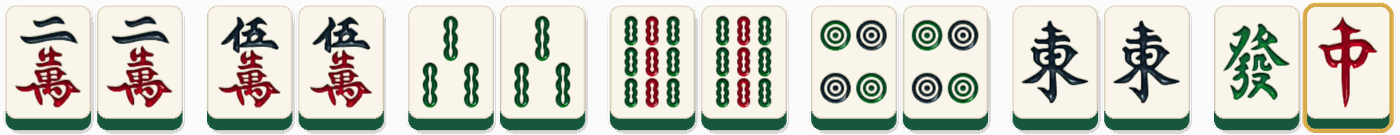
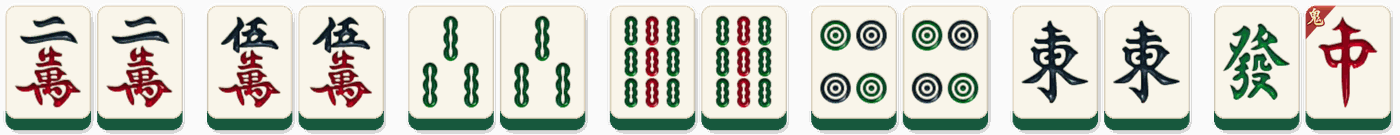
更新：2026-10-15 14:41

Changed region(s): [[0.9214, 0.0, 1.0, 1.0]]

diff --git a/ko/rules.html b/ko/rules.html
@@ -33,7 +33,7 @@ if(a)location.replace(new URL(a.href).pathname+location.search+location.hash)}ca
 <p>마작패 한 벌은 <strong>백서른여섯 장</strong>이며, 같은 패가 네 장씩 있습니다. 만수패, 삭수패, 통수패는 각각 일부터 구까지 아홉 종류로, 한 계통에 서른여섯 장, 모두 백여덟 장입니다. 동, 남, 서, 북의 풍패 열여섯 장과 중, 발, 백의 삼원패 열두 장을 더하면 한 벌이 됩니다. 표면이 비어 있는 백도 엄연히 한 종류의 패입니다.</p>
 <figure class="tiles"><picture><img src="/assets/rules/deck.png" alt="패 한 벌: 만·삭·통 1~9, 동남서북 풍패, 중·발·백 삼원패. 종류마다 네 장씩, 모두 136장." loading="lazy"></picture><figcaption>패 한 벌: 만·삭·통 1~9, 동남서북 풍패, 중·발·백 삼원패. 종류마다 네 장씩, 모두 136장.</figcaption></figure>
 <p>소설에서 만수패, 삭수패, 통수패는 재물, 나무, 쇠를 상징합니다. 네 풍패는 네 방향을, 중, 발, 백은 각각 하늘의 중심, 생명력, 맑고 빈 경지를 나타냅니다. 이것이 작품에서 말하는 천지의 형상입니다. 대국을 따라갈 때는 우선 패의 계통과 숫자를 구별하면 됩니다.</p>
-<p>섞은 패를 쌓아 차례로 뽑는 곳이 <strong>패산</strong>, 각자가 들고 있는 패가 손패입니다. 버린 패는 버림패 구역에 놓입니다. 이를 살피면 이미 나온 패와 상대가 기다리는 패를 헤아릴 수 있습니다. 첫째 장의 아홉째 순은 청람이 패를 뽑아 가는 흐름을 따라 셉니다. 네 국을 겨룬다는 말은 패를 네 번만 뽑는다는 뜻이 아닙니다.</p>
+<p>섞은 패를 쌓아 차례로 뽑는 곳이 <strong>패산</strong>, 각자가 들고 있는 패가 손패입니다. 버린 패는 버림패 구역에 놓입니다. 이를 살피면 이미 나온 패와 상대가 기다리는 패를 헤아릴 수 있습니다. 첫째 장의 아홉째 순은 청람이 패를 뽑아 가는 흐름을 따라 셉니다.</p>
 <h3>화료의 기본: 네 몸통과 한 머리</h3>
 <p>먼저 <strong>네 몸통과 한 머리</strong>라는 기본 형태를 기억하세요. 같은 계통에서 숫자가 이어지는 일만, 이만, 삼만 같은 세 장은 슌쯔입니다. 삼통 세 장처럼 같은 패 세 장은 커쯔입니다. 깡으로 같은 패 네 장을 모아도 몸통은 하나로 셉니다. 같은 패 두 장은 또이쯔이며, 머리로 남길 수 있습니다.</p>
 <figure class="tiles"><picture><source media="(max-width:600px)" srcset="/assets/rules/melds_m.png"><img src="/assets/rules/melds.png" alt="왼쪽부터 슌쯔(일만·이만·삼만), 커쯔(삼통 세 장), 깡(발 네 장), 또이쯔(북 두 장)." loading="lazy"></picture><figcaption>왼쪽부터 슌쯔(일만·이만·삼만), 커쯔(삼통 세 장), 깡(발 네 장), 또이쯔(북 두 장).</figcaption></figure>
@@ -41,10 +41,10 @@ if(a)location.replace(new URL(a.href).pathname+location.search+location.hash)}ca
 <p><strong>퐁</strong>은 손에 있는 또이쯔와 같은 패가 버려졌을 때 가져와 커쯔로 공개하는 것입니다. <strong>깡</strong>은 규칙에 따라 같은 패 네 장을 한 몸통으로 묶는 것입니다. <strong>치</strong>는 바로 앞 차례인 상가의 버림패를 손의 두 장과 합쳐 슌쯔로 공개하는 것입니다. 추도문에서는 퐁과 깡이 가능하지만 치는 할 수 없습니다. 직접 뽑은 패로 슌쯔를 만드는 것은 가능합니다.</p>
 <p>알맞은 한 장만 더 있으면 화료할 수 있는 상태가 <strong>텐파이</strong>, 그 한 장에 해당하는 패가 대기패입니다. <strong>멘젠</strong>은 치, 퐁, 명깡으로 몸통을 공개하지 않은 상태를 말합니다. 첫째 장에서 청람은 직접 패를 뽑으며 손패를 완성합니다.</p>
 <figure class="tiles"><picture><source media="(max-width:600px)" srcset="/assets/rules/ting_m.png"><img src="/assets/rules/ting.png" alt="텐파이: 열세 장이 갖춰져 한 장만 남았습니다. 육통·칠통은 오통이나 팔통(오른쪽 흐린 패)을 기다리며, 둘 중 하나만 오면 화료합니다." loading="lazy"></picture><figcaption>텐파이: 열세 장이 갖춰져 한 장만 남았습니다. 육통·칠통은 오통이나 팔통(오른쪽 흐린 패)을 기다리며, 둘 중 하나만 오면 화료합니다.</figcaption></figure>
-<p>네 몸통과 머리만이 작품의 유일한 화료 형태는 아닙니다. 다섯째 장에서는 <strong>치또이츠</strong>도 허용합니다. 또이쯔 일곱 개를 모으는 형태이며, 부족한 짝은 만능패로 채울 수 있습니다.</p>
-<figure class="tiles"><picture><source media="(max-width:600px)" srcset="/assets/rules/sevenpairs_m.png"><img src="/assets/rules/sevenpairs.png" alt="치또이츠: 또이쯔 여섯 개에, 만능패 중(금테)이 발의 짝이 되어 일곱 번째 쌍을 채웁니다." loading="lazy"></picture><figcaption>치또이츠: 또이쯔 여섯 개에, 만능패 중(금테)이 발의 짝이 되어 일곱 번째 쌍을 채웁니다.</figcaption></figure>
+<p>네 몸통과 머리만이 작품의 유일한 화료 형태는 아닙니다. 이 작품에서는 <strong>치또이츠</strong>도 허용합니다. 또이쯔 일곱 개를 모으는 형태이며, 부족한 짝은 만능패로 채울 수 있습니다.</p>
+<figure class="tiles"><picture><source media="(max-width:600px)" srcset="/assets/rules/sevenpairs_m.png"><img src="/assets/rules/sevenpairs.png" alt="치또이츠: 또이쯔 여섯 개에, 만능패 중(왼쪽 위 붉은 ‘귀’ 표시)이 발의 짝이 되어 일곱 번째 쌍을 채웁니다." loading="lazy"></picture><figcaption>치또이츠: 또이쯔 여섯 개에, 만능패 중(왼쪽 위 붉은 ‘귀’ 표시)이 발의 짝이 되어 일곱 번째 쌍을 채웁니다.</figcaption></figure>
 <h3>만능패: 뒤집어 나온 것과 같은 종류</h3>
-<p>추도문에서는 매 국을 시작할 때 사주가 <strong>패산의 끝에서 세 번째 패를 뒤집어 만능패를 정합니다</strong>. 나온 패와 같은 종류가 그 국의 만능패가 되어, 손패를 구성할 때 필요한 어떤 패든 대신할 수 있습니다. 첫째 장의 마지막 국에는 중이 나왔으므로 중이 만능패가 됩니다. 언제나 중으로 고정된 것은 아닙니다.</p>
+<p>추도문에서는 매 국을 시작할 때 사주가 <strong>패산의 끝에서 세 번째 패를 뒤집어 만능패를 정합니다</strong>. 나온 패와 같은 종류가 그 국의 만능패가 되어, 손패를 구성할 때 필요한 어떤 패든 대신할 수 있습니다. 첫째 장의 마지막 국에는 중이 나왔으므로 중이 만능패가 됩니다. 언제나 중으로 고정된 것은 아닙니다. 게임 작패마작에서는 방을 만들 때 ‘뒤집은 패가 만능’을 고를 수 있어 소설과 같은 규칙으로 즐길 수 있습니다. 흔히 쓰는 ‘번귀’ 규칙은 뒤집은 패의 다음 패가 만능패가 됩니다. 예를 들어 오만이 나오면 육만이 만능패입니다.</p>
 <figure class="tiles"><picture><img src="/assets/rules/ghost.png" alt="만능패 정하기: 패산 끝에서 세 번째 패를 뒤집습니다. 중이 나왔으니 이번 판의 중은 모두 만능패입니다." loading="lazy"></picture><figcaption>만능패 정하기: 패산 끝에서 세 번째 패를 뒤집습니다. 중이 나왔으니 이번 판의 중은 모두 만능패입니다.</figcaption></figure>
 <p>뒤집은 패는 패산 끝에 남고, 첫째 장에서는 뽑을 수 없는 패라고 명시합니다. 청람이 손에 가진 중은 다른 한 장입니다. 만능패는 빈자리를 채우지만 패의 수를 늘리지는 않습니다. 마지막 손패를 풀어 보면 분명해집니다.</p>
 <blockquote><p>일만, 이만, 삼만으로 첫 번째 슌쯔를 만듭니다.</p></blockquote>
@@ -52,7 +52,7 @@ if(a)location.replace(new URL(a.href).pathname+location.search+location.hash)}ca
 <blockquote><p>삼통, 삼통, 삼통으로 커쯔 하나를 만듭니다.</p></blockquote>
 <blockquote><p>육통, 칠통, 중에서 중을 팔통으로 써서 세 번째 슌쯔를 만듭니다.</p></blockquote>
 <blockquote><p>북, 북은 머리가 됩니다.</p></blockquote>
-<figure class="tiles"><picture><source media="(max-width:600px)" srcset="/assets/rules/hand_m.png"><img src="/assets/rules/hand.png" alt="첫째 장 청람의 화료패: 슌쯔 셋, 커쯔 하나, 머리 한 쌍. 금테 중은 만능패로 팔통 대신 쓰입니다." loading="lazy"></picture><figcaption>첫째 장 청람의 화료패: 슌쯔 셋, 커쯔 하나, 머리 한 쌍. 금테 중은 만능패로 팔통 대신 쓰입니다.</figcaption></figure>
+<figure class="tiles"><picture><source media="(max-width:600px)" srcset="/assets/rules/hand_m.png"><img src="/assets/rules/hand.png" alt="첫째 장 청람의 화료패: 슌쯔 셋, 커쯔 하나, 머리 한 쌍. 왼쪽 위에 붉은 ‘귀’ 표시가 있는 중은 만능패로 팔통 대신 쓰입니다." loading="lazy"></picture><figcaption>첫째 장 청람의 화료패: 슌쯔 셋, 커쯔 하나, 머리 한 쌍. 왼쪽 위에 붉은 ‘귀’ 표시가 있는 중은 만능패로 팔통 대신 쓰입니다.</figcaption></figure>
 <p>슌쯔 셋, 커쯔 하나, 머리 하나로 형태가 완성됩니다. 마지막에 뽑은 삼통은 커쯔를 완성하고, 손에 있던 중은 통수패 슌쯔의 빈자리를 채웁니다. 만능패의 힘은 이처럼 구체적인 한 장의 역할을 대신하는 데 있습니다.</p>
 <h3>쯔모와 방총: 스물여덟 점 적자에서 네 점 승리까지</h3>
 <p>패산에서 직접 뽑은 패로 화료하는 것이 <strong>쯔모</strong>입니다. 다른 사람의 버림패로 화료하는 것은 론이며, 그 패를 버린 사람은 <strong>방총</strong>한 것입니다. 첫째 장에서 청람에게 필요한 승리는 쯔모입니다.</p>
@@ -65,8 +65,8 @@ if(a)location.replace(new URL(a.href).pathname+location.search+location.hash)}ca
 <p>마지막 국에서 도가 전체의 순증가는 서른두 점입니다. 청람 개인이 받은 마흔여덟 점을 전부 도가의 순이익으로 계산하면 같은 편의 이동분까지 이익으로 세게 됩니다.</p>
 <h3>공도국: 패탁의 공정을 증명하는 사람들</h3>
 <p><strong>공도국</strong>은 무엇을 다투는지, 어떻게 겨룰지, 결과에 따라 무엇을 지킬지를 정하고 대국으로 분쟁을 매듭짓는 자리입니다. 첫째 장에서는 염색 공방의 물길이 걸려 있습니다. 공도탁에서 승패가 공정한 판단이 되리라는 믿음은 패자가 약속을 지키고 승자도 신의를 지키며, 그 과정을 검증할 수 있어야 성립합니다.</p>
-<p><strong>사주</strong>는 패와 점수를 확인하는 판정관입니다. 월녕은 점수뿐 아니라 패가 한 장 더 끼어 있는지도 살핍니다. <strong>패사</strong>는 대국의 기록을 남기는 사람입니다. 죽묵의 기보가 있기에 옛 대국도 다시 살펴볼 수 있습니다. 넷째 장에서는 속임수의 의혹으로 사람을 붙잡아 조사하려면 사주, 입회인, 패사의 <strong>세 주체의 공동 입증</strong>이 필요하다고 밝힙니다.</p>
-<p>기보 공개는 버림패를 사람들 앞에서 기록하고 그 기록을 확인할 수 있다는 뜻입니다. 다섯째 장의 재대국에는 세 주체가 모두 참여하고, 여덟째 장에서는 서원에도 기보 사본이 전해집니다. 속임수가 입증되면 이전 판정을 무효로 돌릴 수도 있습니다. 이겼다는 사실만으로 옳음을 영원히 독차지할 수는 없습니다.</p>
+<p><strong>사주</strong>는 패와 점수를 확인하는 판정관입니다. 월녕은 점수뿐 아니라 패가 한 장 더 끼어 있는지도 살핍니다. <strong>패사</strong>는 대국의 기록을 남기는 사람입니다. 죽묵의 기보가 있기에 옛 대국도 다시 살펴볼 수 있습니다. 작도의 규칙에 따르면 속임수의 의혹으로 사람을 붙잡아 조사하려면 사주, 입회인, 패사의 <strong>세 주체의 공동 입증</strong>이 필요합니다.</p>
+<p>기보 공개는 버림패를 사람들 앞에서 기록하고 그 기록을 확인할 수 있다는 뜻입니다. 속임수가 입증되면 이전 판정을 무효로 돌릴 수도 있습니다. 이겼다는 사실만으로 옳음을 영원히 독차지할 수는 없습니다.</p>
 <h3>세 유파와 게임의 대응 방식</h3>
 <p><strong>추도문</strong>은 안정적인 운영과 멘젠을 중시합니다. 퐁과 깡은 가능하고 치는 금지되며, 매 국 만능패를 정합니다. 게임에서는 <strong>추도호</strong>에 대응합니다.</p>
 <p><strong>홍중회</strong>는 중 네 장을 만능패로 쓰며 변화가 많은 운영을 펼칩니다. 화료 뒤에는 새에 관한 판정 절차가 이어집니다. 대응하는 방식은 <strong>홍중마작</strong>입니다.</p>

diff --git a/ja/rules.html b/ja/rules.html
@@ -33,7 +33,7 @@ if(a)location.replace(new URL(a.href).pathname+location.search+location.hash)}ca
 <p>一組の牌は <strong>百三十六枚</strong>。同じ牌が四枚ずつあります。萬子・索子・筒子はそれぞれ一から九まであり、一種類につき三十六枚、合わせて百八枚。東・南・西・北の四種の風牌が十六枚、中・發・白の三元牌が十二枚で、一組になります。何も描かれていない白も、独立した一種類の牌です。</p>
 <figure class="tiles"><picture><img src="/assets/rules/deck.png" alt="一組の牌：萬子・索子・筒子の一〜九、東南西北の風牌、中・發・白の三元牌。各四枚、計百三十六枚。" loading="lazy"></picture><figcaption>一組の牌：萬子・索子・筒子の一〜九、東南西北の風牌、中・發・白の三元牌。各四枚、計百三十六枚。</figcaption></figure>
 <p>物語では、萬子・索子・筒子は財・木・金、四種の風牌は四方を象徴します。中・發・白が表すのは、それぞれ天の心、生命の力、澄みきった空白。これが作中の「天地の姿」です。対局を読むときは、まず牌の種類と数字を見分ければ十分です。</p>
-<p>洗って積み、順に牌をツモるための山が <strong>牌山</strong>、自分の持つ牌が手牌、捨てた牌が並ぶ場所が河です。河を見れば、すでに出た牌や相手の狙いを考えられます。第一章の「九巡目」は青嵐が牌をツモる経過に沿った数え方です。「四局」は四回ツモることではありません。</p>
+<p>洗って積み、順に牌をツモるための山が <strong>牌山</strong>、自分の持つ牌が手牌、捨てた牌が並ぶ場所が河です。河を見れば、すでに出た牌や相手の狙いを考えられます。第一章の「九巡目」は青嵐が牌をツモる経過に沿った数え方です。</p>
 <h3>和了の基本は四組と一対</h3>
 <p>基本の形は、<strong>四組の面子と、一対の雀頭</strong>です。同じ種類で数字が三つ続く一萬・二萬・三萬などは順子。同じ牌三枚は刻子です。同じ牌四枚をそろえたカンの組も、一組として数えます。同じ牌二枚の対子を、雀頭として残します。</p>
 <figure class="tiles"><picture><source media="(max-width:600px)" srcset="/assets/rules/melds_m.png"><img src="/assets/rules/melds.png" alt="左から順子（一萬・二萬・三萬）、刻子（三筒が三枚）、カン（發が四枚）、対子（北が二枚）。" loading="lazy"></picture><figcaption>左から順子（一萬・二萬・三萬）、刻子（三筒が三枚）、カン（發が四枚）、対子（北が二枚）。</figcaption></figure>
@@ -41,10 +41,10 @@ if(a)location.replace(new URL(a.href).pathname+location.search+location.hash)}ca
 <p><strong>ポン</strong>は、手元の対子に誰かの捨て牌を加え、刻子を公開すること。<strong>カン</strong>は、規則に従って同じ牌四枚を一組にすることです。<strong>チー</strong>は、上家の捨て牌を手元の二枚と合わせ、順子を公開すること。推倒門ではポンとカンはできますが、チーはできません。自分でツモった牌で順子を作ることはできます。</p>
 <p>あと一枚で和了できる状態が <strong>テンパイ</strong>、その一枚に当たる牌が待ち牌です。<strong>門前</strong>とは、チー・ポン・明カンによる副露をしていない状態。第一章の青嵐は、自分で牌をツモりながら手を完成させます。</p>
 <figure class="tiles"><picture><source media="(max-width:600px)" srcset="/assets/rules/ting_m.png"><img src="/assets/rules/ting.png" alt="テンパイ：十三枚がそろい、あと一枚。六筒・七筒の待ちは五筒か八筒（右の薄い牌）で、どちらかが来れば和了。" loading="lazy"></picture><figcaption>テンパイ：十三枚がそろい、あと一枚。六筒・七筒の待ちは五筒か八筒（右の薄い牌）で、どちらかが来れば和了。</figcaption></figure>
-<p>四組と雀頭だけが和了形ではありません。第五章では <strong>七対子</strong>も認められ、七つの対子をそろえて和了します。足りない相方を万能牌で補うこともできます。</p>
-<figure class="tiles"><picture><source media="(max-width:600px)" srcset="/assets/rules/sevenpairs_m.png"><img src="/assets/rules/sevenpairs.png" alt="七対子：対子が六つ。最後の一対は、万能牌の中（金枠）が發の相方になります。" loading="lazy"></picture><figcaption>七対子：対子が六つ。最後の一対は、万能牌の中（金枠）が發の相方になります。</figcaption></figure>
+<p>四組と雀頭だけが和了形ではありません。本作では <strong>七対子</strong>も認められ、七つの対子をそろえて和了します。足りない相方を万能牌で補うこともできます。</p>
+<figure class="tiles"><picture><source media="(max-width:600px)" srcset="/assets/rules/sevenpairs_m.png"><img src="/assets/rules/sevenpairs.png" alt="七対子：対子が六つ。最後の一対は、万能牌の中（左上の赤い「鬼」マーク）が發の相方になります。" loading="lazy"></picture><figcaption>七対子：対子が六つ。最後の一対は、万能牌の中（左上の赤い「鬼」マーク）が發の相方になります。</figcaption></figure>
 <h3>万能牌の決め方：めくった牌と同じ種類</h3>
-<p>推倒門では毎局、司籌が <strong>牌山の末尾から三枚目をめくって万能牌を定めます</strong>。出た牌と同じ種類が、その局の万能牌です。組を作る際、必要な任意の牌に代わることができます。第一章の最終局では中が出たため、中が万能牌となります。毎局必ず中と決まっているわけではありません。</p>
+<p>推倒門では毎局、司籌が <strong>牌山の末尾から三枚目をめくって万能牌を定めます</strong>。出た牌と同じ種類が、その局の万能牌です。組を作る際、必要な任意の牌に代わることができます。第一章の最終局では中が出たため、中が万能牌となります。毎局必ず中と決まっているわけではありません。ゲーム『雀覇麻雀』では部屋を作るときに「めくった牌が万能」を選べ、小説と同じルールで遊べます。一般的な「翻鬼」は、めくった牌の次の牌が万能牌になります。たとえば五萬が出れば、六萬が万能牌です。</p>
 <figure class="tiles"><picture><img src="/assets/rules/ghost.png" alt="万能牌の決め方：牌の山の後ろから三枚目をめくる。中が出たので、この局は中がすべて万能牌。" loading="lazy"></picture><figcaption>万能牌の決め方：牌の山の後ろから三枚目をめくる。中が出たので、この局は中がすべて万能牌。</figcaption></figure>
 <p>めくった一枚は牌山の末尾に残り、第一章ではツモれないと明記されています。青嵐の手元にある中は別の一枚です。万能牌は不足を補いますが、手牌の枚数を増やしません。最後の形を一組ずつ見てみましょう。</p>
 <blockquote><p>一萬・二萬・三萬で、一組目の順子。</p></blockquote>
@@ -52,7 +52,7 @@ if(a)location.replace(new URL(a.href).pathname+location.search+location.hash)}ca
 <blockquote><p>三筒・三筒・三筒で、一組の刻子。</p></blockquote>
 <blockquote><p>六筒・七筒・中で、中を八筒として使い、三組目の順子。</p></blockquote>
 <blockquote><p>北・北で、雀頭。</p></blockquote>
-<figure class="tiles"><picture><source media="(max-width:600px)" srcset="/assets/rules/hand_m.png"><img src="/assets/rules/hand.png" alt="第一章、青嵐の和了形：順子三つ、刻子一つ、雀頭一対。金枠の中は万能牌で、八筒の代わり。" loading="lazy"></picture><figcaption>第一章、青嵐の和了形：順子三つ、刻子一つ、雀頭一対。金枠の中は万能牌で、八筒の代わり。</figcaption></figure>
+<figure class="tiles"><picture><source media="(max-width:600px)" srcset="/assets/rules/hand_m.png"><img src="/assets/rules/hand.png" alt="第一章、青嵐の和了形：順子三つ、刻子一つ、雀頭一対。左上に赤い「鬼」マークのある中は万能牌で、八筒の代わり。" loading="lazy"></picture><figcaption>第一章、青嵐の和了形：順子三つ、刻子一つ、雀頭一対。左上に赤い「鬼」マークのある中は万能牌で、八筒の代わり。</figcaption></figure>
 <p>順子が三組、刻子が一組、雀頭が一対。最後にツモった三筒が刻子を完成させ、中は筒子の順子を補っています。万能牌の働きは、このように具体的な牌の代わりとして確かめられます。</p>
 <h3>ツモと放銃：二十八点の負けから四点の勝ちへ</h3>
 <p>牌山から自分でツモった牌で和了するのが <strong>ツモ</strong>。他人の捨て牌で和了するのはロンで、その牌を捨ててしまうことが <strong>放銃</strong>です。第一章の青嵐が必要とするのは、ツモによる和了です。</p>
@@ -65,8 +65,8 @@ if(a)location.replace(new URL(a.href).pathname+location.search+location.hash)}ca
 <p>陶家全体の増加分は三十二点。青嵐個人が受け取る四十八点を、そのまま陶家の純増としてはいけません。</p>
 <h3>公道局：牌卓の公正を支える記録</h3>
 <p><strong>公道局</strong>は、争点、対局の方式、勝敗に従う約束を定め、牌で争いに決着をつける場です。第一章では染物工房の水路が争点になります。「勝敗こそ公理」という公道卓への期待は、負ければ約束を守り、勝っても信義を守ること、そして対局を検証できることに支えられています。</p>
-<p><strong>司籌</strong>は点数と牌を確かめる裁定役。月寧は計算だけでなく、牌が一枚多くないかも調べます。<strong>牌史</strong>は対局の記録を残す者で、竹墨の牌譜は過去の一局を検証する手掛かりになります。第四章では、不正の疑いで身柄を拘束して問いただすには、司籌・立会人・牌史の <strong>三者による立証</strong>が必要だと示されます。</p>
-<p>牌譜の公開とは、捨て牌を人々の前で記録し、その記録を調べられることです。第五章の再戦には三者がそろい、第八章では書院にも牌譜の写しが渡ります。不正が確認されれば、以前の裁定も無効にできます。勝ったというだけで、正しさを独占できるわけではありません。</p>
+<p><strong>司籌</strong>は点数と牌を確かめる裁定役。月寧は計算だけでなく、牌が一枚多くないかも調べます。<strong>牌史</strong>は対局の記録を残す者で、竹墨の牌譜は過去の一局を検証する手掛かりになります。雀道の決まりでは、不正の疑いで身柄を拘束して問いただすには、司籌・立会人・牌史の <strong>三者による立証</strong>が必要です。</p>
+<p>牌譜の公開とは、捨て牌を人々の前で記録し、その記録を調べられることです。不正が確認されれば、以前の裁定も無効にできます。勝ったというだけで、正しさを独占できるわけではありません。</p>
 <h3>三つの流派とゲームの遊び方</h3>
 <p><strong>推倒門</strong>は堅実さと門前を重んじ、ポン・カンは可能、チーは禁止。毎局、万能牌を定めます。対応するゲームの遊び方は <strong>推倒胡</strong>です。</p>
 <p><strong>紅中会</strong>は四枚の中を万能牌として使い、変化に富む打ち方を好みます。和了後には「鳥」による判定があり、対応する遊び方は <strong>紅中麻雀</strong>です。</p>

diff --git a/en/rules.html b/en/rules.html
@@ -33,7 +33,7 @@ if(a)location.replace(new URL(a.href).pathname+location.search+location.hash)}ca
 <p>A set contains <strong>136 tiles</strong>, with four copies of each tile. The three suits, Characters, Bamboo and Dots, each run from one to nine. That makes thirty-six tiles per suit and 108 altogether. The four Winds, East, South, West and North, add sixteen tiles. The three Dragons, Red Dragon, Green Dragon and White Dragon, add twelve. The blank face of the White Dragon still represents a distinct tile.</p>
 <figure class="tiles"><picture><img src="/assets/rules/deck.png" alt="The full set: Characters, Bamboo and Dots from one to nine, the four Winds and the three Dragons. Four of each, 136 tiles in all." loading="lazy"></picture><figcaption>The full set: Characters, Bamboo and Dots from one to nine, the four Winds and the three Dragons. Four of each, 136 tiles in all.</figcaption></figure>
 <p>The novel gives these tiles a symbolic place in the cosmos. Characters, Bamboo and Dots stand for wealth, wood and metal; the Winds represent the four directions. The Dragons represent the heart of heaven, vitality and clarity, respectively. These are the story&#x27;s meanings. To follow a hand, begin with suits and numbers.</p>
-<p>Shuffled tiles are stacked into the <strong>wall</strong>, from which players draw. Each player&#x27;s own tiles form their hand; discarded tiles enter the discard pool. Watching those discards helps reveal what has appeared and what others might need. In Chapter One, the ninth turn follows Qinglan&#x27;s progress through his draws. A match of four hands does not mean four draws.</p>
+<p>Shuffled tiles are stacked into the <strong>wall</strong>, from which players draw. Each player&#x27;s own tiles form their hand; discarded tiles enter the discard pool. Watching those discards helps reveal what has appeared and what others might need. In Chapter One, the ninth turn follows Qinglan&#x27;s progress through his draws.</p>
 <h3>A winning hand: four groups and a pair</h3>
 <p>The usual structure is <strong>four groups plus a pair of eyes</strong>. A sequence contains three consecutive numbers in one suit, such as One, Two and Three of Characters. A triplet contains three identical tiles, such as three copies of the Three of Dots. A kong contains four identical tiles but still counts as one group. Two identical tiles form the pair of eyes.</p>
 <figure class="tiles"><picture><source media="(max-width:600px)" srcset="/assets/rules/melds_m.png"><img src="/assets/rules/melds.png" alt="From left: a sequence (One, Two, Three of Characters), a triplet (three Three of Dots), a kong (four Green Dragons) and a pair (two North Winds)." loading="lazy"></picture><figcaption>From left: a sequence (One, Two, Three of Characters), a triplet (three Three of Dots), a kong (four Green Dragons) and a pair (two North Winds).</figcaption></figure>
@@ -41,10 +41,10 @@ if(a)location.replace(new URL(a.href).pathname+location.search+location.hash)}ca
 <p>To call <strong>pung</strong>, take another player&#x27;s discard to join two matching tiles in your hand, then expose the triplet. A <strong>kong</strong> groups four matching tiles under the applicable rules. To call <strong>chow</strong>, take the previous player&#x27;s discard to complete and expose a sequence with two tiles from your hand. The Tuidao School allows pung and kong but forbids chow. You can still form sequences from tiles you draw yourself.</p>
 <p>If one suitable tile would complete your hand, you are <strong>ready to win</strong>; the tiles that complete it are your winning tiles. A <strong>concealed hand</strong> has no groups exposed through chow, pung or an exposed kong. Qinglan builds his hand through his own draws in Chapter One.</p>
 <figure class="tiles"><picture><source media="(max-width:600px)" srcset="/assets/rules/ting_m.png"><img src="/assets/rules/ting.png" alt="Ready to win: thirteen tiles in place, one short. The Six and Seven of Dots wait for the Five or the Eight of Dots (faded, right); either one completes the hand." loading="lazy"></picture><figcaption>Ready to win: thirteen tiles in place, one short. The Six and Seven of Dots wait for the Five or the Eight of Dots (faded, right); either one completes the hand.</figcaption></figure>
-<p>Four groups and a pair are not the only winning pattern in the story. Chapter Five explicitly allows <strong>Seven Pairs</strong>, with a wild tile able to fill a missing partner.</p>
-<figure class="tiles"><picture><source media="(max-width:600px)" srcset="/assets/rules/sevenpairs_m.png"><img src="/assets/rules/sevenpairs.png" alt="Seven Pairs: six pairs, with the wild Red Dragon (gold frame) partnering the Green Dragon for the seventh." loading="lazy"></picture><figcaption>Seven Pairs: six pairs, with the wild Red Dragon (gold frame) partnering the Green Dragon for the seventh.</figcaption></figure>
+<p>Four groups and a pair are not the only winning pattern in the story. The story also allows <strong>Seven Pairs</strong>, with a wild tile able to fill a missing partner.</p>
+<figure class="tiles"><picture><source media="(max-width:600px)" srcset="/assets/rules/sevenpairs_m.png"><img src="/assets/rules/sevenpairs.png" alt="Seven Pairs: six pairs, with the wild Red Dragon (red corner tag) partnering the Green Dragon for the seventh." loading="lazy"></picture><figcaption>Seven Pairs: six pairs, with the wild Red Dragon (red corner tag) partnering the Green Dragon for the seventh.</figcaption></figure>
 <h3>Wild tiles: the revealed type becomes wild</h3>
-<p>At the start of each Tuidao School hand, the scorekeeper will <strong>reveal a tile to determine the wild tile</strong>, turning over the third tile from the end of the wall. Tiles of that same type can act as a wild tile, replacing any needed tile when forming a hand. In the last hand of Chapter One, the revealed tile is a Red Dragon. Red Dragons are therefore wild for that hand; they are not always the wild type.</p>
+<p>At the start of each Tuidao School hand, the scorekeeper will <strong>reveal a tile to determine the wild tile</strong>, turning over the third tile from the end of the wall. Tiles of that same type can act as a wild tile, replacing any needed tile when forming a hand. In the last hand of Chapter One, the revealed tile is a Red Dragon. Red Dragons are therefore wild for that hand; they are not always the wild type. When you set up a room in the game <em>Mahjong King</em>, you can choose “Revealed Is Wild”, which matches the novel. The more common rule makes the tile after the revealed one wild: reveal a Five of Characters, and the Six of Characters is wild.</p>
 <figure class="tiles"><picture><img src="/assets/rules/ghost.png" alt="Choosing the wild: the third tile from the end of the wall is turned over. A Red Dragon comes up, so every Red Dragon is wild this hand." loading="lazy"></picture><figcaption>Choosing the wild: the third tile from the end of the wall is turned over. A Red Dragon comes up, so every Red Dragon is wild this hand.</figcaption></figure>
 <p>The revealed tile stays at the end of the wall and cannot be drawn in the chapter&#x27;s example. Qinglan holds a different copy. A wild tile fills a gap without adding another tile to his hand. His final arrangement shows exactly how:</p>
 <blockquote><p>One, Two and Three of Characters form the first sequence.</p></blockquote>
@@ -52,7 +52,7 @@ if(a)location.replace(new URL(a.href).pathname+location.search+location.hash)}ca
 <blockquote><p>Three copies of the Three of Dots form a triplet.</p></blockquote>
 <blockquote><p>Six of Dots, Seven of Dots and a Red Dragon form the third sequence, with the Red Dragon standing in for the Eight of Dots.</p></blockquote>
 <blockquote><p>Two North Winds form the pair of eyes.</p></blockquote>
-<figure class="tiles"><picture><source media="(max-width:600px)" srcset="/assets/rules/hand_m.png"><img src="/assets/rules/hand.png" alt="Qinglan&#x27;s winning hand in Chapter One: three sequences, a triplet and a pair. The gold-framed Red Dragon is wild and stands in for the Eight of Dots." loading="lazy"></picture><figcaption>Qinglan&#x27;s winning hand in Chapter One: three sequences, a triplet and a pair. The gold-framed Red Dragon is wild and stands in for the Eight of Dots.</figcaption></figure>
+<figure class="tiles"><picture><source media="(max-width:600px)" srcset="/assets/rules/hand_m.png"><img src="/assets/rules/hand.png" alt="Qinglan&#x27;s winning hand in Chapter One: three sequences, a triplet and a pair. The Red Dragon with the red corner tag is wild and stands in for the Eight of Dots." loading="lazy"></picture><figcaption>Qinglan&#x27;s winning hand in Chapter One: three sequences, a triplet and a pair. The Red Dragon with the red corner tag is wild and stands in for the Eight of Dots.</figcaption></figure>
 <p>Three sequences, one triplet and one pair complete the structure. Qinglan&#x27;s final draw, the Three of Dots, completes the triplet. His Red Dragon fills the gap in the Dots sequence. The wild tile&#x27;s power is a precise substitution within the hand.</p>
 <h3>Self-draw and dealing in: from minus 28 to plus 4</h3>
 <p>Complete your hand with a tile you draw from the wall, and you win by <strong>self-draw</strong>. You can also win using another player&#x27;s discard; the player who discards that tile is said to <strong>deal in</strong>. Qinglan needs the first kind of win.</p>
@@ -65,8 +65,8 @@ if(a)location.replace(new URL(a.href).pathname+location.search+location.hash)}ca
 <p>The final hand adds thirty-two to the Tao side&#x27;s score. Counting all forty-eight points Qinglan receives as the side&#x27;s net gain would count an internal transfer as a gain.</p>
 <h3>A sworn match of honour: who establishes the truth?</h3>
 <p>A <strong>sworn match of honour</strong> settles a dispute under agreed terms: what is contested, how the match is played and what the result commits each side to do. Chapter One concerns access to a dye works&#x27; waterway. At the <strong>table of justice</strong>, a result carries authority because people pledge to honour it and the play must withstand scrutiny.</p>
-<p>The <strong>scorekeeper</strong> records points, checks tiles and adjudicates. Yuening&#x27;s work includes finding an extra tile as well as calculating scores. The <strong>chronicler</strong> records play, making it possible to examine old hands through Zhumo&#x27;s game records. Chapter Four requires <strong>joint attestation by three parties</strong>—scorekeeper, witness and chronicler—before a person suspected of cheating can be detained for questioning.</p>
-<p>Open game records make play available for examination: discards are recorded in public, and the record can be checked. All three roles attend the rematch in Chapter Five; Chapter Eight brings a copy of its record to the academy. Proven cheating can invalidate a verdict. Winning does not make someone&#x27;s claim forever beyond challenge.</p>
+<p>The <strong>scorekeeper</strong> records points, checks tiles and adjudicates. Yuening&#x27;s work includes finding an extra tile as well as calculating scores. The <strong>chronicler</strong> records play, making it possible to examine old hands through Zhumo&#x27;s game records. By the customs of the mahjong world, it takes <strong>joint attestation by three parties</strong>—scorekeeper, witness and chronicler—before a person suspected of cheating can be detained for questioning.</p>
+<p>Open game records make play available for examination: discards are recorded in public, and the record can be checked. Proven cheating can invalidate a verdict. Winning does not make someone&#x27;s claim forever beyond challenge.</p>
 <h3>Three schools, three game modes</h3>
 <p><strong>The Tuidao School</strong> values steady play and a concealed hand. It allows pung and kong, forbids chow and determines a new wild type each hand. Its corresponding game mode is <strong>Tuidaohu</strong>.</p>
 <p><strong>The Red Dragon Society</strong> uses the four Red Dragons as wild tiles and favours flexible play. A bird procedure follows a win. Its corresponding mode is <strong>Red Dragon Mahjong</strong>.</p>

diff --git a/rules.html b/rules.html
@@ -33,7 +33,7 @@ if(a)location.replace(new URL(a.href).pathname+location.search+location.hash)}ca
 <p>一副牌共 <strong>136 张</strong>，每种牌各有四张。万子、条子、筒子各从一到九，每门三十六张，合计一百零八张。再加东、南、西、北四种风牌共十六张，以及中、发、白三种三元牌共十二张，正好凑齐一副。白板虽然牌面空白，也是一种正式的牌。</p>
 <figure class="tiles"><picture><img src="/assets/rules/deck.png" alt="一副牌：万、条、筒各从一到九，东南西北四风，中发白三元。每种四张，共 136 张。" loading="lazy"></picture><figcaption>一副牌：万、条、筒各从一到九，东南西北四风，中发白三元。每种四张，共 136 张。</figcaption></figure>
 <p>小说把这些花色写成「天地之象」：万、条、筒分别象征财、木、金，四风代表四方，中、发、白分别对应天心、生机、空明。这是故事赋予牌面的寓意；读牌局时，先认清花色和数字就够了。</p>
-<p>洗好后码起、供牌手依次摸取的牌叫 <strong>牌墙</strong>；各人面前自己持有的是手牌，打出去的牌进入牌河。看牌河，能知道哪些牌已经出现，也能帮助判断对手在等什么。第一章的「第九巡」跟着青岚的摸牌进程数，不能把「四局」误读成四次摸牌。</p>
+<p>洗好后码起、供牌手依次摸取的牌叫 <strong>牌墙</strong>；各人面前自己持有的是手牌，打出去的牌进入牌河。看牌河，能知道哪些牌已经出现，也能帮助判断对手在等什么。第一章的「第九巡」跟着青岚的摸牌进程数。</p>
 <h3>怎样算胡：四组加一对</h3>
 <p>先记住常见的胡牌骨架：<strong>四组牌，加一对作将</strong>。顺子是同一花色连续三个数，例如一万、二万、三万；刻子是三张一样的牌，例如三张三筒；杠是四张一样的牌，组牌时仍算一组。对子是两张一样的牌，留下来作将，就是整手牌的那一对。</p>
 <figure class="tiles"><picture><source media="(max-width:600px)" srcset="/assets/rules/melds_m.png"><img src="/assets/rules/melds.png" alt="从左到右：顺子（一二三万）、刻子（三张三筒）、杠（四张发）、对子（两张北风）。" loading="lazy"></picture><figcaption>从左到右：顺子（一二三万）、刻子（三张三筒）、杠（四张发）、对子（两张北风）。</figcaption></figure>
@@ -41,10 +41,10 @@ if(a)location.replace(new URL(a.href).pathname+location.search+location.hash)}ca
 <p><strong>碰</strong>，是用手里的一对接别人打出的同种牌，亮出一副刻子。<strong>杠</strong>，是按规则把四张同种牌组成一组。<strong>吃</strong>，是用手里的两张牌接上家打出的牌，亮出一副顺子。推倒门能碰、能杠，不能吃；但自己摸齐的顺子照样能用。不能吃，不等于不能有顺子。</p>
 <p>只差一张合适的牌就能胡，叫 <strong>听牌</strong>；能补齐的牌就是听口。「门前清」说的是没有副露的状态，也就是没有借吃、碰、明杠把牌组亮在桌上。第一章青岚靠自己摸牌组好整手牌，正是这种打法。</p>
 <figure class="tiles"><picture><source media="(max-width:600px)" srcset="/assets/rules/ting_m.png"><img src="/assets/rules/ting.png" alt="听牌：十三张已经成形，只差一张。六筒、七筒等的是五筒或八筒（右侧淡色），摸到任一张就能胡。" loading="lazy"></picture><figcaption>听牌：十三张已经成形，只差一张。六筒、七筒等的是五筒或八筒（右侧淡色），摸到任一张就能胡。</figcaption></figure>
-<p>四组加一对也不是本作唯一的胡法。第五章明确允许 <strong>七对</strong>，即用七个对子成胡，其中的缺口也能由鬼牌补上。</p>
-<figure class="tiles"><picture><source media="(max-width:600px)" srcset="/assets/rules/sevenpairs_m.png"><img src="/assets/rules/sevenpairs.png" alt="七对：六个对子，最后一对由鬼牌红中（金框）补上发。" loading="lazy"></picture><figcaption>七对：六个对子，最后一对由鬼牌红中（金框）补上发。</figcaption></figure>
+<p>四组加一对也不是本作唯一的胡法。本作也允许 <strong>七对</strong>，即用七个对子成胡，其中的缺口也能由鬼牌补上。</p>
+<figure class="tiles"><picture><source media="(max-width:600px)" srcset="/assets/rules/sevenpairs_m.png"><img src="/assets/rules/sevenpairs.png" alt="七对：六个对子，最后一对由鬼牌红中（左上角红色「鬼」标）补上发。" loading="lazy"></picture><figcaption>七对：六个对子，最后一对由鬼牌红中（左上角红色「鬼」标）补上发。</figcaption></figure>
 <h3>鬼牌怎么定：翻开的那一种就是鬼</h3>
-<p>推倒门每局开牌时，由司筹 <strong>翻开牌墙倒数第三张</strong>。翻出什么牌，同种牌就是这一局的鬼牌，可以替代所需的任何牌来组牌，书中称为「通神」。第一章末局翻出红中，红中就是鬼牌；不是永远只有红中能当鬼。</p>
+<p>推倒门每局开牌时，由司筹 <strong>翻开牌墙倒数第三张</strong>。翻出什么牌，同种牌就是这一局的鬼牌，可以替代所需的任何牌来组牌，书中称为「通神」。第一章末局翻出红中，红中就是鬼牌；不是永远只有红中能当鬼。游戏《雀霸麻将》建房时可选「翻出即鬼」，和小说一致；常见的「翻鬼」则是翻出牌的下一张为鬼，例如翻出五万，六万是鬼。</p>
 <figure class="tiles"><picture><img src="/assets/rules/ghost.png" alt="定鬼：翻开牌墙倒数第三张。翻出红中，这一局所有红中都是鬼牌。" loading="lazy"></picture><figcaption>定鬼：翻开牌墙倒数第三张。翻出红中，这一局所有红中都是鬼牌。</figcaption></figure>
 <p>翻开的那张留在墙尾，第一章明确说它摸不到；青岚手里的红中是另一张。鬼牌的价值在于补缺，不会凭空增加手牌的张数。看看他最后那手牌，便能明白：</p>
 <blockquote><p>一万、二万、三万，是第一组顺子。</p></blockquote>
@@ -52,7 +52,7 @@ if(a)location.replace(new URL(a.href).pathname+location.search+location.hash)}ca
 <blockquote><p>三筒、三筒、三筒，是一组刻子。</p></blockquote>
 <blockquote><p>六筒、七筒、红中，红中当八筒，凑成第三组顺子。</p></blockquote>
 <blockquote><p>北风、北风，是一对将。</p></blockquote>
-<figure class="tiles"><picture><source media="(max-width:600px)" srcset="/assets/rules/hand_m.png"><img src="/assets/rules/hand.png" alt="第一章青岚的胡牌：三组顺子、一组刻子、一对将；金框的红中是鬼牌，当八筒用。" loading="lazy"></picture><figcaption>第一章青岚的胡牌：三组顺子、一组刻子、一对将；金框的红中是鬼牌，当八筒用。</figcaption></figure>
+<figure class="tiles"><picture><source media="(max-width:600px)" srcset="/assets/rules/hand_m.png"><img src="/assets/rules/hand.png" alt="第一章青岚的胡牌：三组顺子、一组刻子、一对将；左上角带红色「鬼」标的红中是鬼牌，当八筒用。" loading="lazy"></picture><figcaption>第一章青岚的胡牌：三组顺子、一组刻子、一对将；左上角带红色「鬼」标的红中是鬼牌，当八筒用。</figcaption></figure>
 <p>三组顺子、一组刻子、一对将，结构完整。青岚最后摸进三筒，补成那副刻子，手中的红中则补上筒子顺子的缺口。所谓通神，落到牌面上就是这样一次清楚的替代。</p>
 <h3>自摸与点炮：负二十八分怎样翻成净胜四分</h3>
 <p>自己从牌墙摸到需要的牌而胡，叫 <strong>自摸</strong>。别人打出的牌让你胡，是胡别人的弃牌；打出这张牌的人叫 <strong>点炮</strong>。第一章青岚等的，就是自己摸到牌的那一次机会。</p>
@@ -65,8 +65,8 @@ if(a)location.replace(new URL(a.href).pathname+location.search+location.hash)}ca
 <p>所以，这一局给陶家带来的净增分是三十二，绝不能把个人收来的四十八分全部算作陶家的净收益。</p>
 <h3>公道局：谁来证明牌桌上的公道</h3>
 <p>公道局用牌局结果裁定争执，事先讲明争什么、怎样打、输赢后如何履约。第一章争的是染坊水道的归属。牌桌之所以能承载「输赢即是公理」的期待，是因为人们约定输了守约、赢了守信，也要求过程经得起查验。</p>
-<p><strong>司筹</strong>负责记分、核牌和裁断，月宁的算盘管的是分数，也管有没有多出一张牌。<strong>牌史</strong>记录每一手，竹墨保存的牌谱让旧局能够重新核查。第四章写明，有出千之疑，须由司筹、见证、牌史 <strong>三方共证</strong>，才能拘问。</p>
-<p>牌谱公开，意味着出牌当众记录、记录能够拿来查验。第五章的重赛有三方在场，第八章又把牌谱抄给书院。公道因此有可以追查的凭据；查实出千，原判也能作废。赢牌的人并不会仅凭赢了，就永远占着道理。</p>
+<p><strong>司筹</strong>负责记分、核牌和裁断，月宁的算盘管的是分数，也管有没有多出一张牌。<strong>牌史</strong>记录每一手，竹墨保存的牌谱让旧局能够重新核查。按雀道的规矩，有出千之疑，须由司筹、见证、牌史 <strong>三方共证</strong>，才能拘问。</p>
+<p>牌谱公开，意味着出牌当众记录、记录能够拿来查验。公道因此有可以追查的凭据；查实出千，原判也能作废。赢牌的人并不会仅凭赢了，就永远占着道理。</p>
 <h3>三大流派：从小说走到游戏</h3>
 <p><strong>推倒门</strong>重稳与门前清，能碰能杠不能吃，每局翻牌定鬼，对应游戏玩法「推倒胡」。</p>
 <p><strong>红中会</strong>以四张红中通神，打法多变，胡牌后「扎鸟」，对应「红中麻将」。</p>

diff --git a/ja/map.html b/ja/map.html
@@ -29,7 +29,7 @@ if(a)location.replace(new URL(a.href).pathname+location.search+location.hash)}ca
 <p>夜間モード</p><div class="seg"><button type="button" data-theme-set="light">☀</button><button type="button" data-theme-set="dark">☾</button></div>
 </div></details><details class="menu" id="langmenu"><summary title="言語" aria-label="言語"><svg viewBox="0 0 24 24" width="20" height="20" aria-hidden="true"><path fill="currentColor" d="M12.87 15.07l-2.54-2.51.03-.03c1.74-1.94 2.98-4.17 3.71-6.53H17V4h-7V2H8v2H1v1.99h11.17C11.5 7.92 10.44 9.75 9 11.35 8.07 10.32 7.3 9.19 6.69 8h-2c.73 1.63 1.73 3.17 2.98 4.56l-5.09 5.02L4 19l5-5 3.11 3.11.76-2.04zM18.5 10h-2L12 22h2l1.12-3h4.75L21 22h2l-4.5-12zm-2.62 7l1.62-4.33L19.12 17h-3.24z"/></svg></summary><div class="pop"><a href="../map.html" lang="zh-Hans" data-zh="s">简体中文</a><a href="../map.html" lang="zh-Hant" data-zh="t">繁體中文</a><a href="../en/map.html" lang="en">English</a><a href="../ja/map.html" lang="ja" aria-current="true">日本語</a><a href="../ko/map.html" lang="ko">한국어</a></div></details></nav></div></header>
 <main class="reader mappage mapv"><h1 class="ch">天元大地・世界地図</h1><p class="lead">『雀覇伝奇』既知の地。物語が進んだところまで、地図が解放されていきます。</p>
-<div id="worldmap" class="worldmap" role="img" aria-label="天元大地全図"></div><noscript><img src="../assets/map/viewer/world_ch3.jpg?v=944da2b6" alt="天元大地全図" style="width:100%"></noscript><script src="../assets/map/viewer/map-viewer.js?v=8f1deb33" defer></script><script>addEventListener("DOMContentLoaded",function(){var c=null;var el=document.getElementById("worldmap");QuebaMap.mount(el,{base:"../assets/map/viewer/",chapter:3,lang:"ja",text:function(t){return c?c(t.zh):(t["ja"]||t.zh)}});})</script></main>
+<div id="worldmap" class="worldmap" role="img" aria-label="天元大地全図"></div><noscript><img src="../assets/map/viewer/world_ch3.jpg?v=944da2b6" alt="天元大地全図" style="width:100%"></noscript><script src="../assets/map/viewer/map-viewer.js?v=eaa73bcc" defer></script><script>addEventListener("DOMContentLoaded",function(){var c=null;var el=document.getElementById("worldmap");QuebaMap.mount(el,{base:"../assets/map/viewer/",chapter:3,lang:"ja",text:function(t){return c?c(t.zh):(t["ja"]||t.zh)}});})</script></main>
 <footer><p>『雀覇伝奇』© 2026 聴雨楼主　すべての権利を留保します。本サイトは本作を最初に公開する唯一の場所です。転載の際は出典を明記してください。</p>
 <p class="small"><a href="map.html">世界地図</a>　<a href="rules.html">麻雀のルール</a>　<a href="invite.html">紹介キャンペーン</a>　<a href="guestbook.html">読者の声</a>　<a href="../en/privacy.html">プライバシーポリシー</a></p>
 <p class="small">作者が創作を主導し、AIが文章の執筆を補助しています。 <a href="about.html#ai">詳しくはこちら</a></p></footer>

diff --git a/map.html b/map.html
@@ -29,7 +29,7 @@ if(a)location.replace(new URL(a.href).pathname+location.search+location.hash)}ca
 <p>夜间模式</p><div class="seg"><button type="button" data-theme-set="light">☀</button><button type="button" data-theme-set="dark">☾</button></div>
 </div></details><details class="menu" id="langmenu"><summary title="语言" aria-label="语言"><svg viewBox="0 0 24 24" width="20" height="20" aria-hidden="true"><path fill="currentColor" d="M12.87 15.07l-2.54-2.51.03-.03c1.74-1.94 2.98-4.17 3.71-6.53H17V4h-7V2H8v2H1v1.99h11.17C11.5 7.92 10.44 9.75 9 11.35 8.07 10.32 7.3 9.19 6.69 8h-2c.73 1.63 1.73 3.17 2.98 4.56l-5.09 5.02L4 19l5-5 3.11 3.11.76-2.04zM18.5 10h-2L12 22h2l1.12-3h4.75L21 22h2l-4.5-12zm-2.62 7l1.62-4.33L19.12 17h-3.24z"/></svg></summary><div class="pop"><a href="map.html" lang="zh-Hans" data-zh="s" aria-current="true">简体中文</a><a href="map.html" lang="zh-Hant" data-zh="t">繁體中文</a><a href="en/map.html" lang="en">English</a><a href="ja/map.html" lang="ja">日本語</a><a href="ko/map.html" lang="ko">한국어</a></div></details></nav></div></header>
 <main class="reader mappage mapv"><h1 class="ch">天元大地 · 世界地图</h1><p class="lead">《雀霸传奇》已知之地：故事发生到哪里，地图就解锁到哪里。</p>
-<div id="worldmap" class="worldmap" role="img" aria-label="天元大地全图"></div><noscript><img src="assets/map/viewer/world_ch3.jpg?v=944da2b6" alt="天元大地全图" style="width:100%"></noscript><script src="assets/map/viewer/map-viewer.js?v=8f1deb33" defer></script><script>addEventListener("DOMContentLoaded",function(){var c=null;try{if(localStorage.getItem('qb-zh')==='t'&&window.OpenCC)c=OpenCC.Converter({from:'cn',to:'tw'})}catch(e){}var el=document.getElementById("worldmap");QuebaMap.mount(el,{base:"assets/map/viewer/",chapter:3,lang:"zh",text:function(t){return c?c(t.zh):(t["zh"]||t.zh)}});})</script></main>
+<div id="worldmap" class="worldmap" role="img" aria-label="天元大地全图"></div><noscript><img src="assets/map/viewer/world_ch3.jpg?v=944da2b6" alt="天元大地全图" style="width:100%"></noscript><script src="assets/map/viewer/map-viewer.js?v=eaa73bcc" defer></script><script>addEventListener("DOMContentLoaded",function(){var c=null;try{if(localStorage.getItem('qb-zh')==='t'&&window.OpenCC)c=OpenCC.Converter({from:'cn',to:'tw'})}catch(e){}var el=document.getElementById("worldmap");QuebaMap.mount(el,{base:"assets/map/viewer/",chapter:3,lang:"zh",text:function(t){return c?c(t.zh):(t["zh"]||t.zh)}});})</script></main>
 <footer><p>《雀霸传奇》© 2026 听雨楼主　保留所有权利。本站为本作唯一首发地，转载请注明出处。</p>
 <p class="small"><a href="map.html">世界地图</a>　<a href="rules.html">麻将规则</a>　<a href="invite.html">推广有礼</a>　<a href="guestbook.html">读者留言</a>　<a href="privacy.html">隐私政策</a></p>
 <p class="small">本作由作者主创，AI 辅助执笔。 <a href="about.html#ai">说明</a></p></footer>

diff --git a/ko/map.html b/ko/map.html
@@ -29,7 +29,7 @@ if(a)location.replace(new URL(a.href).pathname+location.search+location.hash)}ca
 <p>야간 모드</p><div class="seg"><button type="button" data-theme-set="light">☀</button><button type="button" data-theme-set="dark">☾</button></div>
 </div></details><details class="menu" id="langmenu"><summary title="언어" aria-label="언어"><svg viewBox="0 0 24 24" width="20" height="20" aria-hidden="true"><path fill="currentColor" d="M12.87 15.07l-2.54-2.51.03-.03c1.74-1.94 2.98-4.17 3.71-6.53H17V4h-7V2H8v2H1v1.99h11.17C11.5 7.92 10.44 9.75 9 11.35 8.07 10.32 7.3 9.19 6.69 8h-2c.73 1.63 1.73 3.17 2.98 4.56l-5.09 5.02L4 19l5-5 3.11 3.11.76-2.04zM18.5 10h-2L12 22h2l1.12-3h4.75L21 22h2l-4.5-12zm-2.62 7l1.62-4.33L19.12 17h-3.24z"/></svg></summary><div class="pop"><a href="../map.html" lang="zh-Hans" data-zh="s">简体中文</a><a href="../map.html" lang="zh-Hant" data-zh="t">繁體中文</a><a href="../en/map.html" lang="en">English</a><a href="../ja/map.html" lang="ja">日本語</a><a href="../ko/map.html" lang="ko" aria-current="true">한국어</a></div></details></nav></div></header>
 <main class="reader mappage mapv"><h1 class="ch">천원대지 · 세계 지도</h1><p class="lead">《작도의 전설》의 알려진 땅. 이야기가 닿는 곳마다 지도가 해금됩니다.</p>
-<div id="worldmap" class="worldmap" role="img" aria-label="천원대지 전도"></div><noscript><img src="../assets/map/viewer/world_ch3.jpg?v=944da2b6" alt="천원대지 전도" style="width:100%"></noscript><script src="../assets/map/viewer/map-viewer.js?v=8f1deb33" defer></script><script>addEventListener("DOMContentLoaded",function(){var c=null;var el=document.getElementById("worldmap");QuebaMap.mount(el,{base:"../assets/map/viewer/",chapter:3,lang:"ko",text:function(t){return c?c(t.zh):(t["ko"]||t.zh)}});})</script></main>
+<div id="worldmap" class="worldmap" role="img" aria-label="천원대지 전도"></div><noscript><img src="../assets/map/viewer/world_ch3.jpg?v=944da2b6" alt="천원대지 전도" style="width:100%"></noscript><script src="../assets/map/viewer/map-viewer.js?v=eaa73bcc" defer></script><script>addEventListener("DOMContentLoaded",function(){var c=null;var el=document.getElementById("worldmap");QuebaMap.mount(el,{base:"../assets/map/viewer/",chapter:3,lang:"ko",text:function(t){return c?c(t.zh):(t["ko"]||t.zh)}});})</script></main>
 <footer><p>《작도의 전설》© 2026 청우루주　모든 권리는 저작권자에게 있습니다. 본 사이트는 이 작품의 유일한 최초 공개처입니다. 전재 시 출처를 밝혀 주세요.</p>
 <p class="small"><a href="map.html">세계 지도</a>　<a href="rules.html">마작 규칙</a>　<a href="invite.html">추천 이벤트</a>　<a href="guestbook.html">독자 방명록</a>　<a href="../en/privacy.html">개인정보 처리방침</a></p>
 <p class="small">작가가 창작을 주도하고 인공지능이 문장 집필을 돕습니다. <a href="about.html#ai">자세히 보기</a></p></footer>

diff --git a/en/map.html b/en/map.html
@@ -29,7 +29,7 @@ if(a)location.replace(new URL(a.href).pathname+location.search+location.hash)}ca
 <p>Night mode</p><div class="seg"><button type="button" data-theme-set="light">☀</button><button type="button" data-theme-set="dark">☾</button></div>
 </div></details><details class="menu" id="langmenu"><summary title="Language" aria-label="Language"><svg viewBox="0 0 24 24" width="20" height="20" aria-hidden="true"><path fill="currentColor" d="M12.87 15.07l-2.54-2.51.03-.03c1.74-1.94 2.98-4.17 3.71-6.53H17V4h-7V2H8v2H1v1.99h11.17C11.5 7.92 10.44 9.75 9 11.35 8.07 10.32 7.3 9.19 6.69 8h-2c.73 1.63 1.73 3.17 2.98 4.56l-5.09 5.02L4 19l5-5 3.11 3.11.76-2.04zM18.5 10h-2L12 22h2l1.12-3h4.75L21 22h2l-4.5-12zm-2.62 7l1.62-4.33L19.12 17h-3.24z"/></svg></summary><div class="pop"><a href="../map.html" lang="zh-Hans" data-zh="s">简体中文</a><a href="../map.html" lang="zh-Hant" data-zh="t">繁體中文</a><a href="../en/map.html" lang="en" aria-current="true">English</a><a href="../ja/map.html" lang="ja">日本語</a><a href="../ko/map.html" lang="ko">한국어</a></div></details></nav></div></header>
 <main class="reader mappage mapv"><h1 class="ch">The Tianyuan Lands · World Map</h1><p class="lead">The Known Lands of Legend of the Mahjong King: wherever the story goes, that part of the map unlocks.</p>
-<div id="worldmap" class="worldmap" role="img" aria-label="Map of the Tianyuan Lands"></div><noscript><img src="../assets/map/viewer/world_ch3.jpg?v=944da2b6" alt="Map of the Tianyuan Lands" style="width:100%"></noscript><script src="../assets/map/viewer/map-viewer.js?v=8f1deb33" defer></script><script>addEventListener("DOMContentLoaded",function(){var c=null;var el=document.getElementById("worldmap");QuebaMap.mount(el,{base:"../assets/map/viewer/",chapter:3,lang:"en",text:function(t){return c?c(t.zh):(t["en"]||t.zh)}});})</script></main>
+<div id="worldmap" class="worldmap" role="img" aria-label="Map of the Tianyuan Lands"></div><noscript><img src="../assets/map/viewer/world_ch3.jpg?v=944da2b6" alt="Map of the Tianyuan Lands" style="width:100%"></noscript><script src="../assets/map/viewer/map-viewer.js?v=eaa73bcc" defer></script><script>addEventListener("DOMContentLoaded",function(){var c=null;var el=document.getElementById("worldmap");QuebaMap.mount(el,{base:"../assets/map/viewer/",chapter:3,lang:"en",text:function(t){return c?c(t.zh):(t["en"]||t.zh)}});})</script></main>
 <footer><p>LEGEND OF THE MAHJONG KING © 2026 Master of the Rain Pavilion. All rights reserved. This website is the work’s sole first-publication venue. Please credit the source when reproducing it.</p>
 <p class="small"><a href="map.html">World Map</a>　<a href="rules.html">Mahjong Rules</a>　<a href="invite.html">Invite &amp; Earn</a>　<a href="guestbook.html">Guestbook</a>　<a href="privacy.html">Privacy Policy</a></p>
 <p class="small">Created and directed by the author, with AI-assisted prose. <a href="about.html#ai">Learn more</a></p></footer>

diff --git a/assets/map/viewer/map-viewer.js b/assets/map/viewer/map-viewer.js
@@ -13,7 +13,7 @@
 .qm-stage img{position:absolute;transition:opacity .45s;left:0;top:0;max-width:none;pointer-events:none;-webkit-user-drag:none}
 .qm-labels{position:absolute;inset:0;pointer-events:none}
 .qm-l{position:absolute;white-space:nowrap;color:#fffaf0;font-family:"Noto Serif SC","Noto Serif JP","Noto Serif KR","Songti SC",serif;font-weight:700;letter-spacing:.14em;
- text-shadow:0 1px 2px rgba(0,0,0,.75),0 0 6px rgba(0,0,0,.45),0 0 14px rgba(0,0,0,.25);line-height:1;opacity:0}
+ text-shadow:0 0 2px rgba(0,0,0,.95),0 0 4px rgba(0,0,0,.85),0 1px 6px rgba(0,0,0,.7),0 0 14px rgba(0,0,0,.35);line-height:1;opacity:0}
 .qm-l.place::before{content:"";position:absolute;width:6px;height:6px;border-radius:50%;background:#fff;box-shadow:0 0 0 1.5px rgba(0,0,0,.45),0 0 8px rgba(255,255,255,.8)}
 .qm-l.realm{font-size:26px;letter-spacing:.5em;opacity:.85}
 .qm-l.region{font-size:15px;letter-spacing:.32em;font-weight:500;color:#f5f1e6;font-style:normal}
